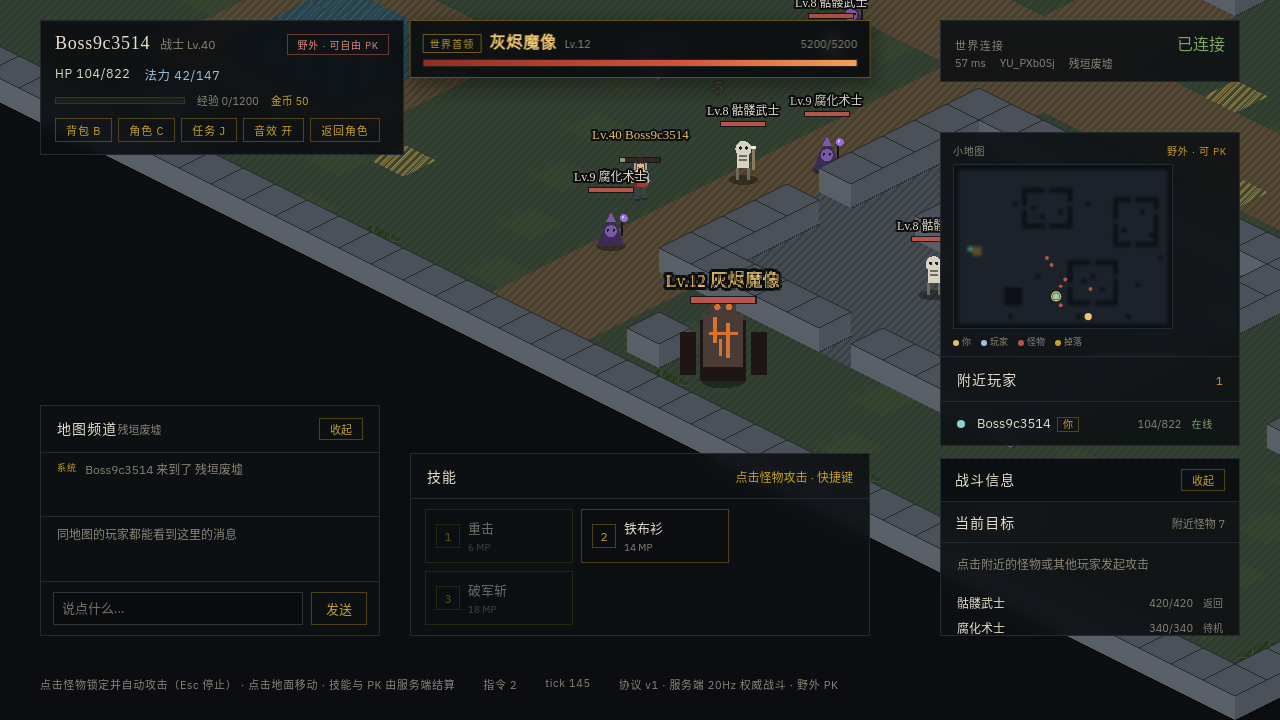
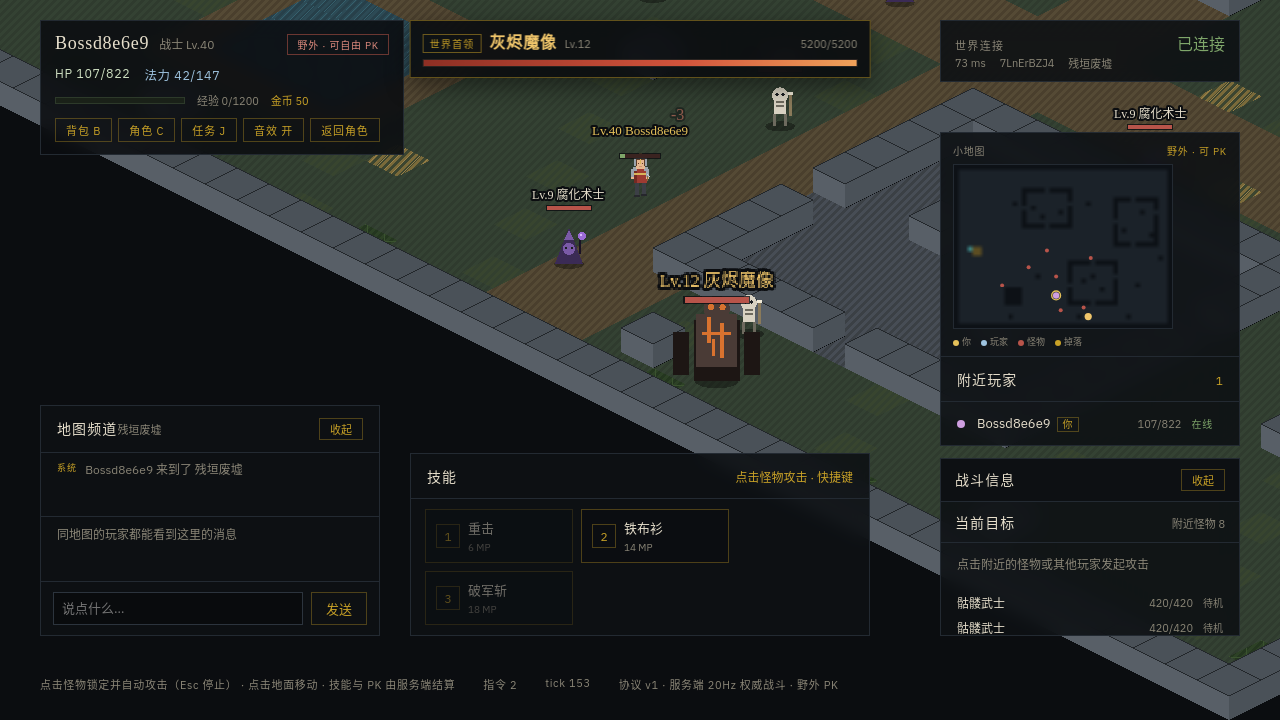
fix(alpha-03): scale the boss nameplate and keep its label visible
The boss plate lives inside a 1.45x container, so the label collision box
was undersized and a nearby monster could cover it. Scale the box with
the container and give boss labels priority above ordinary monsters.

diff --git a/apps/game-web/src/game/WorldScene.ts b/apps/game-web/src/game/WorldScene.ts
@@ -49,7 +49,14 @@ const CAMERA_LIFT_PX = 200;
 const PLAYER_COLORS = [0x9fc4e0, 0xe0b087, 0xa8d6a1, 0xcf9fe0, 0xe0d18f, 0x8fd0d0];
 const MIN_ONE_SHOT_MS = 180;
 const LABEL_REFRESH_MS = 100;
-const LABEL_PRIORITY = { self: 1000, target: 900, npc: 700, player: 500, monster: 400 } as const;
+const LABEL_PRIORITY = {
+  self: 1000,
+  target: 900,
+  boss: 800,
+  npc: 700,
+  player: 500,
+  monster: 400,
+} as const;
 
 type UnitPoint = { x: number; y: number };
 
@@ -858,7 +865,11 @@ export class WorldScene extends Phaser.Scene implements WorldSceneHandle {
         continue;
       }
       const priority =
-        monsterId === this.selectedTargetId ? LABEL_PRIORITY.target : LABEL_PRIORITY.monster;
+        monsterId === this.selectedTargetId
+          ? LABEL_PRIORITY.target
+          : visual.isBoss()
+            ? LABEL_PRIORITY.boss
+            : LABEL_PRIORITY.monster;
       candidates.push({
         id: `monster:${monsterId}`,
         priority,

diff --git a/apps/game-web/src/game/MonsterVisual.ts b/apps/game-web/src/game/MonsterVisual.ts
@@ -95,9 +95,20 @@ export class MonsterVisual {
   }
 
   labelRect(): LabelRect {
-    const width = this.nameText.width;
-    const height = this.nameText.height;
-    return { x: this.current.x - width / 2, y: this.current.y - 62 - height, width, height };
+    // The plate lives inside the scaled container, so its screen footprint is
+    // the scaled text size and offset from the ground anchor.
+    const width = this.nameText.width * this.baseScale;
+    const height = this.nameText.height * this.baseScale;
+    return {
+      x: this.current.x - width / 2,
+      y: this.current.y - 62 * this.baseScale - height,
+      width,
+      height,
+    };
+  }
+
+  isBoss(): boolean {
+    return this.boss;
   }
 
   labelText(): string {
